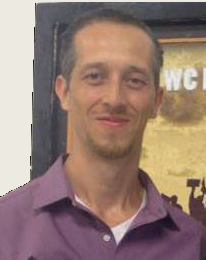
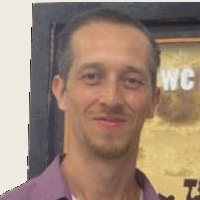
adding endorser images and updating index

diff --git a/assets/css/toolkit-minimal.css b/assets/css/toolkit-minimal.css
@@ -299,10 +299,8 @@ img {
 .carousel-inner > .item > img,
 .carousel-inner > .item > a > img {
   display: block;
-  max-width: 200px;
-  min-width: 200px;
-  max-height: 200px;
-  min-height: 200px;
+  max-width: 100%;
+  height: auto;
 }
 .img-rounded {
   border-radius: 6px;
@@ -316,10 +314,8 @@ img {
   -webkit-transition: all 0.2s ease-in-out;
   transition: all 0.2s ease-in-out;
   display: inline-block;
-  max-width: 200px;
-  min-width: 200px;
-  max-height: 200px;
-  min-height: 200px;
+  max-width: 100%;
+  height: auto;
 }
 .img-circle {
   border-radius: 50%;
@@ -450,7 +446,7 @@ h1,
 h2,
 .h2 {
   font-size: 36px;
-  color:#EF5B30;
+  color:#EF5B30;    
 }
 h3,
 .h3 {
@@ -4374,8 +4370,7 @@ a.thumbnail.active {
   display: block;
 }
 .media-object.img-thumbnail {
-  max-width: 200px;
-  min-width: 200px;
+  max-width: none;
 }
 .media-right,
 .media > .pull-right {
@@ -8944,16 +8939,3 @@ h6,
 }
 
 /*# sourceMappingURL=toolkit-minimal.css.map */
-
-
-/* #endorser {position:relative; width:230px; height:230px; /*dimensions of image*/} */
-#endorser .image,
-#endorser .text {transition: opacity 0.2s ease-in-out;}
-#endorser .text {position:absolute; top:10px; left:20px; opacity:0;}
-
-#endorser:hover .image {opacity:0;}
-#endorser:hover .text {opacity:1;}
-
-.noresize {
-  resize: none;
-}
